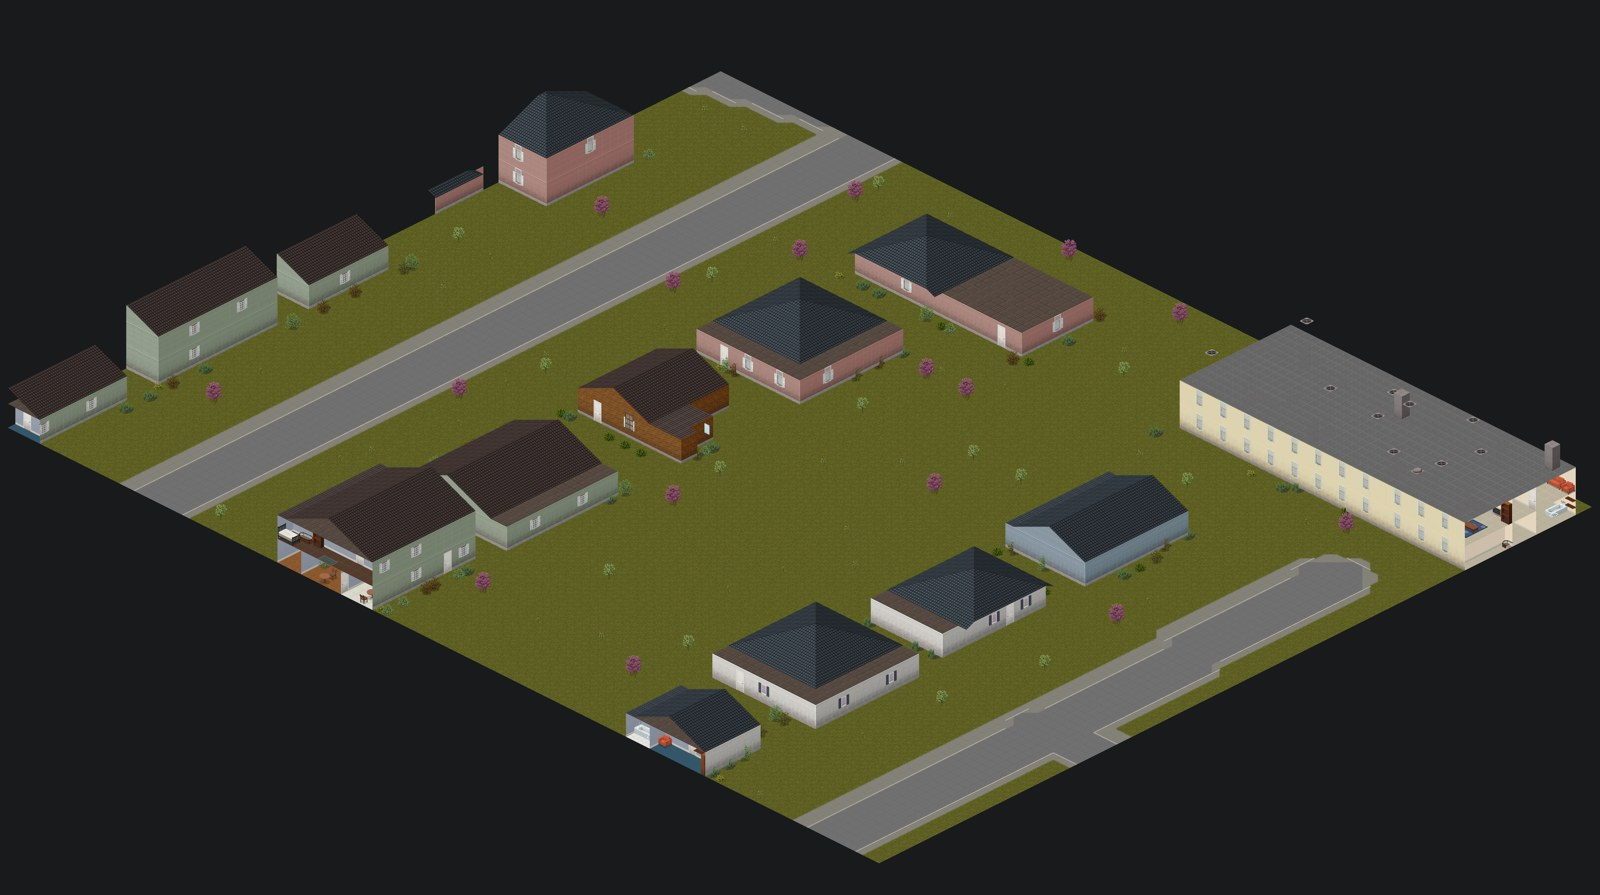
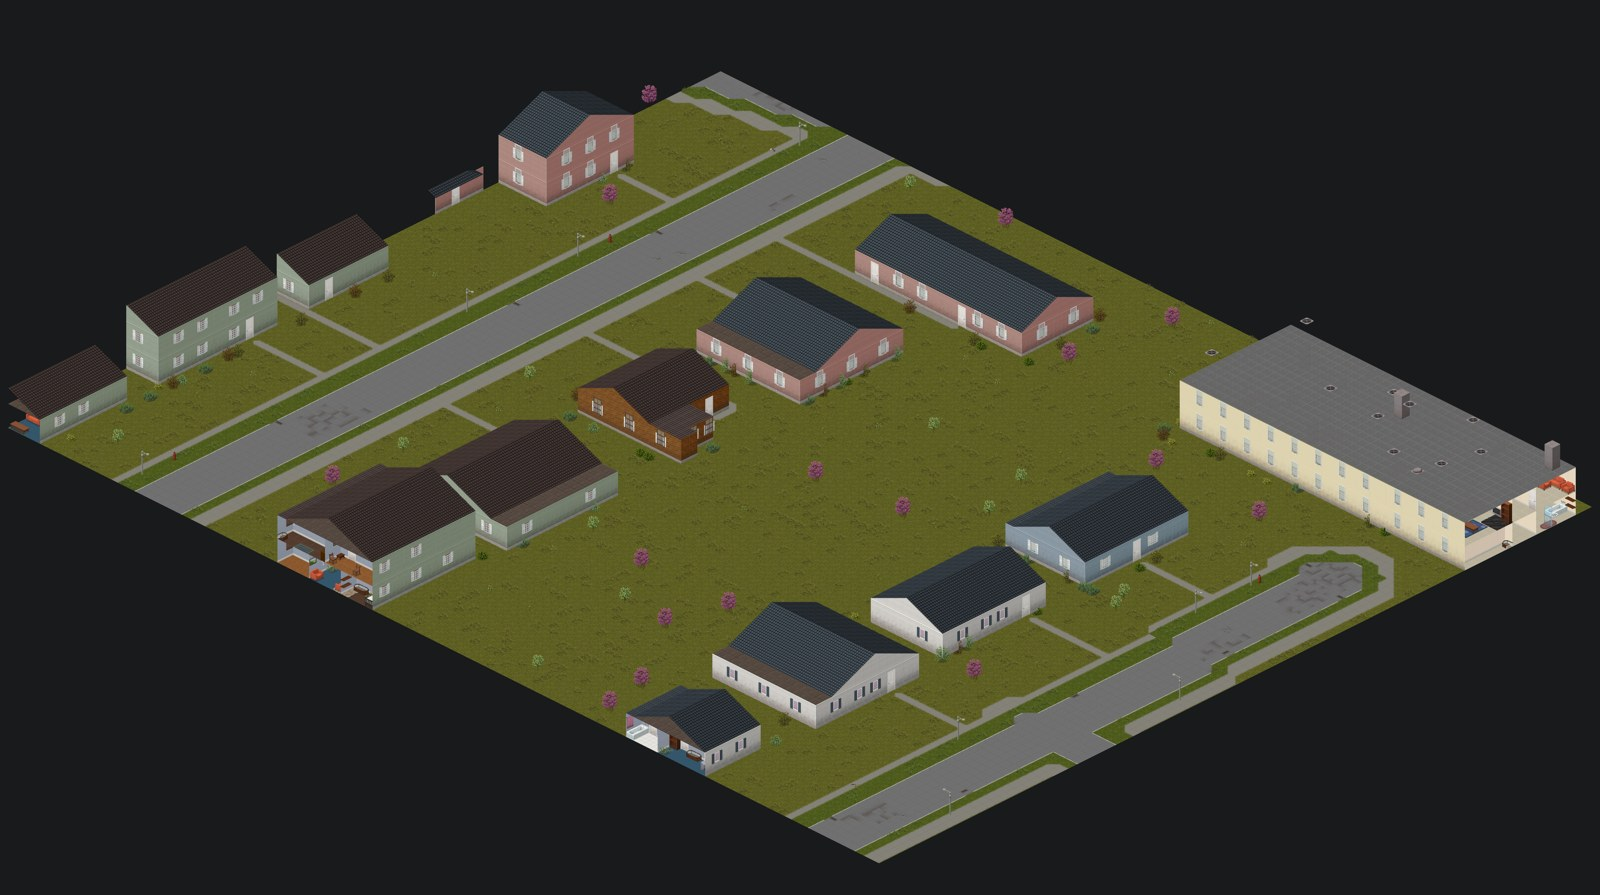
Front doors face the street, with a path to the pavement
- The front door goes on the side of the house facing the nearest pavement
  or road (read from the terrain bitmap), not always the south wall.
- knoxbuild/yards.py paints a path from each house's front door to the
  pavement, into the terrain from the renderer's untouched copy
  (<map>_ground_base.bmp), so rebuilding does not keep old paths.

diff --git a/knoxbuild/build.py b/knoxbuild/build.py
@@ -388,11 +388,54 @@ def _ring_points(geom: dict) -> list[list[float]]:
     return pts
 
 
+STREET_LOOK_TILES = 40
+
+
+def _street_finder(out_dir: str, map_name: str):
+    """A function giving the side ("N", "S", "W" or "E") of a footprint that
+    faces the nearest pavement or road, or None if none is near."""
+    import numpy as np
+    from PIL import Image
+
+    from generator import pz_colors as PC
+
+    path = os.path.join(out_dir, f"{map_name}_ground_base.bmp")
+    if not os.path.exists(path):
+        path = os.path.join(out_dir, f"{map_name}.bmp")
+    if not os.path.exists(path):
+        return lambda *a: None
+    g = np.array(Image.open(path).convert("RGB"))
+    paved = np.zeros(g.shape[:2], dtype=bool)
+    for c in (PC.PALE_CONCRETE, PC.MEDIUM_ASPHALT, PC.DARKEST_ASPHALT):
+        paved |= np.all(g == c, axis=2)
+    H, W = paved.shape
+
+    def side(x0: int, y0: int, w: int, h: int) -> str | None:
+        best, best_d = None, STREET_LOOK_TILES + 1
+        for name, (dx, dy) in (("N", (0, -1)), ("S", (0, 1)), ("W", (-1, 0)), ("E", (1, 0))):
+            if dx == 0:
+                starts = [(x0 + w * f // 4, y0 if dy < 0 else y0 + h - 1) for f in (1, 2, 3)]
+            else:
+                starts = [(x0 if dx < 0 else x0 + w - 1, y0 + h * f // 4) for f in (1, 2, 3)]
+            for sx, sy in starts:
+                for d in range(1, STREET_LOOK_TILES + 1):
+                    x, y = sx + dx * d, sy + dy * d
+                    if not (0 <= x < W and 0 <= y < H):
+                        break
+                    if paved[y, x]:
+                        if d < best_d:
+                            best, best_d = name, d
+                        break
+        return best
+
+    return side
+
+
 def _make_one(job: tuple) -> tuple[int, int, int]:
     """Lay out one building and write its .tbx. Returns (storeys, rooms, furniture)."""
-    w, h, levels, commercial, seed, kind, mask, settings, style, label, path = job
+    w, h, levels, commercial, seed, kind, mask, settings, style, label, path, street = job
     plan = build_building(w, h, levels=levels, commercial=commercial, seed=seed,
-                          kind=kind, mask=mask, settings=settings)
+                          kind=kind, mask=mask, settings=settings, street=street)
     with open(path, "w", encoding="utf-8") as f:
         f.write(render_tbx(plan, label, style))
     return (len(plan.storeys), len(plan.rooms),
@@ -508,6 +551,7 @@ def build(out_dir: str, seed: int | None = None, min_size: int | None = None,
     # not be the town hall giving way to the shed behind it.
     order = []
     jobs: list[tuple] = []       # what each building needs to lay itself out
+    street_side = _street_finder(out_dir, map_name)
     decided: list[tuple] = []    # and what the map needs to know about it
     surroundings: list[tuple[float, float, float, int | None]] = []
     for i, feat in enumerate(geo["features"]):
@@ -589,7 +633,8 @@ def build(out_dir: str, seed: int | None = None, min_size: int | None = None,
         fname = f"{map_name}_{i:04d}.tbx"
         label = tags.get("name") or f"{map_name} building {i}"
         jobs.append((w, h, levels, commercial, seed + i, special, mask,
-                     settings, style, label, os.path.join(bdir, fname)))
+                     settings, style, label, os.path.join(bdir, fname),
+                     street_side(x0, y0, w, h)))
         decided.append((fname, label, x0, y0, w, h, fp, px, special, measured,
                         commercial, style, mask,
                         (tags.get("name") or "") if is_notable(tags, special) else ""))
@@ -620,6 +665,8 @@ def build(out_dir: str, seed: int | None = None, min_size: int | None = None,
             "angle": round(fp.angle, 1),
         })
     rows.sort(key=lambda r: r["file"])
+    from .yards import paint_paths
+    paths = paint_paths(out_dir, map_name, rows, occupied)
 
     fence_placements, fence_tiles = build_fences(out_dir, map_name, proj,
                                                  occupied, areas, bdir)
@@ -691,6 +738,7 @@ def build(out_dir: str, seed: int | None = None, min_size: int | None = None,
     n_park = sum(1 for z in zones if z.kind == "ParkingStall")
     n_town = sum(1 for z in zones if z.kind == "TownZone")
     print(f"zones                 : {n_park} parking, {n_town} town")
+    print(f"front paths           : {paths}")
     print(f"fences                : {fence_tiles} fence tiles in "
           f"{len(fence_placements)} lots")
     print(f"paper map             : {paper_map['map_features']} features in "

diff --git a/knoxbuild/yards.py b/knoxbuild/yards.py
@@ -1,0 +1,116 @@
+"""Front paths: from each house's front door to the pavement or the road.
+
+Knox County's houses all have one; generated houses stood in unbroken lawn
+with the front door opening onto grass. The door is only known once the
+building is laid out, after the terrain was drawn, so the paths are painted
+into the terrain bitmap here, from the renderer's untouched copy of it
+(<map>_ground_base.bmp) so that building again does not keep old paths.
+"""
+from __future__ import annotations
+
+import os
+import re
+import shutil
+from collections import deque
+
+import numpy as np
+from PIL import Image
+
+from generator import pz_colors as C
+
+PATH_MAX_TILES = 40
+# What a path may end on: pavement or tarmac.
+PAVED = (C.PALE_CONCRETE, C.MEDIUM_ASPHALT, C.DARK_ASPHALT, C.DARKEST_ASPHALT)
+# What a path may cross: grass and dirt, not water or anything built.
+CROSSABLE = (C.DARK_GRASS, C.MEDIUM_GRASS, C.LIGHT_GRASS, C.DIRT)
+
+
+def _front_door(tbx_path: str) -> tuple[int, int, int, int] | None:
+    """(outside x, y, inside x, y) of the ground floor's first outside door."""
+    text = open(tbx_path, encoding="utf-8").read()
+    first = text.split("<floor>", 2)
+    if len(first) < 2:
+        return None
+    floor = first[1]
+    grid_text = re.search(r"<rooms>(.*?)</rooms>", floor, re.S)
+    if not grid_text:
+        return None
+    grid = [[int(v) for v in row.strip().strip(",").split(",")]
+            for row in grid_text.group(1).strip().splitlines() if row.strip()]
+    h, w = len(grid), len(grid[0])
+
+    def inside(x, y):
+        return 0 <= x < w and 0 <= y < h and grid[y][x] != 0
+
+    for m in re.finditer(r'type="door"[^>]*? x="(\d+)" y="(\d+)" dir="([NW])"', floor):
+        x, y, d = int(m.group(1)), int(m.group(2)), m.group(3)
+        a, b = ((x, y - 1), (x, y)) if d == "N" else ((x - 1, y), (x, y))
+        if inside(*a) != inside(*b):
+            out, into = (a, b) if inside(*b) else (b, a)
+            return out[0], out[1], into[0], into[1]
+    return None
+
+
+def paint_paths(out_dir: str, map_name: str, rows: list[dict], occupied) -> int:
+    """Paint a path for every house in `rows` (the placements). Returns count."""
+    bmp = os.path.join(out_dir, f"{map_name}.bmp")
+    base = os.path.join(out_dir, f"{map_name}_ground_base.bmp")
+    veg_path = os.path.join(out_dir, f"{map_name}_veg.bmp")
+    if not os.path.exists(bmp):
+        return 0
+    if not os.path.exists(base):
+        shutil.copyfile(bmp, base)
+    ground = np.array(Image.open(base).convert("RGB"))
+    veg = np.array(Image.open(veg_path).convert("RGB")) if os.path.exists(veg_path) else None
+    h, w = ground.shape[:2]
+
+    def match(colours):
+        mask = np.zeros((h, w), dtype=bool)
+        for c in colours:
+            mask |= np.all(ground == c, axis=2)
+        return mask
+
+    paved = match(PAVED)
+    crossable = match(CROSSABLE) & ~occupied
+    painted = 0
+    for row in rows:
+        if row.get("kind") != "house":
+            continue
+        door = _front_door(os.path.join(out_dir, "buildings", row["file"]))
+        if door is None:
+            continue
+        ox, oy, ix, iy = door
+        sx, sy = row["tile_x"] + ox, row["tile_y"] + oy
+        dx, dy = ox - ix, oy - iy          # straight out of the door first
+        if not (0 <= sx < w and 0 <= sy < h) or not crossable[sy, sx]:
+            continue
+        prev = {(sx, sy): None}
+        queue = deque([(sx, sy, 0)])
+        end = None
+        order = [(dx, dy)] + [d for d in ((1, 0), (-1, 0), (0, 1), (0, -1)) if d != (dx, dy)]
+        while queue:
+            x, y, n = queue.popleft()
+            if paved[y, x]:
+                end = (x, y)
+                break
+            if n >= PATH_MAX_TILES:
+                continue
+            for ddx, ddy in order:
+                nx, ny = x + ddx, y + ddy
+                if 0 <= nx < w and 0 <= ny < h and (nx, ny) not in prev \
+                        and (crossable[ny, nx] or paved[ny, nx]):
+                    prev[(nx, ny)] = (x, y)
+                    queue.append((nx, ny, n + 1))
+        if end is None:
+            continue
+        step = prev[end]
+        while step is not None:
+            ground[step[1], step[0]] = C.PALE_CONCRETE
+            if veg is not None:
+                veg[step[1], step[0]] = 0
+            step = prev[step]
+        painted += 1
+    Image.fromarray(ground).save(bmp, format="BMP")
+    if veg is not None:
+        Image.fromarray(veg).save(veg_path, format="BMP")
+    return painted

diff --git a/knoxbuild/layout.py b/knoxbuild/layout.py
@@ -918,7 +918,8 @@ ENTRY_KINDS = ["hall", "lobby", "livingroom", "restaurant", "church",
 
 
 def _exterior_door(plan: Plan, rng: random.Random,
-                   avoid: tuple[int, int] | None = None) -> None:
+                   avoid: tuple[int, int] | None = None,
+                   street: str | None = None) -> None:
     """One way in, into the room a visitor would expect to arrive in.
 
     `avoid` is the foot of the staircase, so the front door does not open
@@ -940,7 +941,9 @@ def _exterior_door(plan: Plan, rng: random.Random,
             far = 0.0
             if avoid is not None:
                 far = abs(mid[0] - avoid[0]) + abs(mid[1] - avoid[1])
-            return (len(wall) >= 3, side == "S", far, len(wall))
+            # Facing the street, as front doors do; without that the door
+            # went on the south wall and half the paths wrapped round houses.
+            return (len(wall) >= 3, side == (street or "S"), far, len(wall))
 
         side, wall = max(runs, key=score)
         plan.doors.append(wall[len(wall) // 2])
@@ -1737,7 +1740,8 @@ def build_building(width: int, height: int, levels: int = 1,
                    commercial: bool = False, seed: int = 0,
                    kind: str | None = None,
                    mask: list[list[bool]] | None = None,
-                   settings: Settings | None = None) -> Building:
+                   settings: Settings | None = None,
+                   street: str | None = None) -> Building:
     """Lay out a building of `levels` storeys.
 
     Each storey is laid out separately rather than copied, because a block of
@@ -1770,7 +1774,8 @@ def build_building(width: int, height: int, levels: int = 1,
         build_plan(width, height, commercial=commercial, seed=seed + 977 * lvl,
                    kind=kind, mask=mask, ground=(lvl == 0), settings=settings,
                    core=core, level=lvl, levels=levels, stairs=stairs,
-                   corridor=corridor, shaft=shaft, shaft_door=shaft_door)
+                   corridor=corridor, shaft=shaft, shaft_door=shaft_door,
+                   street=street)
         for lvl in range(levels)
     ]
     building = Building(width=width, height=height, storeys=storeys)
@@ -1810,7 +1815,8 @@ def build_plan(width: int, height: int, commercial: bool = False,
                stairs: tuple[int, int, str] | None = None,
                corridor: bool = False,
                shaft: tuple[int, int, int, int] | None = None,
-               shaft_door: tuple[int, int, str] | None = None) -> Plan:
+               shaft_door: tuple[int, int, str] | None = None,
+               street: str | None = None) -> Plan:
     """Lay out and furnish one storey of the given tile size.
 
     `ground` gates the exterior door: a door in an upper-floor wall opens onto
@@ -1860,7 +1866,7 @@ def build_plan(width: int, height: int, commercial: bool = False,
 
     _doors(plan, rng)
     if ground:
-        _exterior_door(plan, rng, avoid=_stair_foot(stairs))
+        _exterior_door(plan, rng, avoid=_stair_foot(stairs), street=street)
         if kind in (None, "house"):
             _back_door(plan)
     _furnish(plan, rng, stairs)

diff --git a/generator/renderer.py b/generator/renderer.py
@@ -652,6 +652,9 @@ def render(features: Iterable[OSMFeature], south: float, west: float,
 
     landscape.save(landscape_path, format="BMP")
     vegetation.save(veg_path, format="BMP")
+    # The ground as drawn, before knoxbuild paints front paths into it
+    # (knoxbuild/yards.py), so building again starts from clean ground.
+    landscape.save(os.path.join(output_dir, f"{map_name}_ground_base.bmp"), format="BMP")
     spawn_map.save(spawn_path, format="BMP")
     preview.save(preview_path, format="PNG")
 
